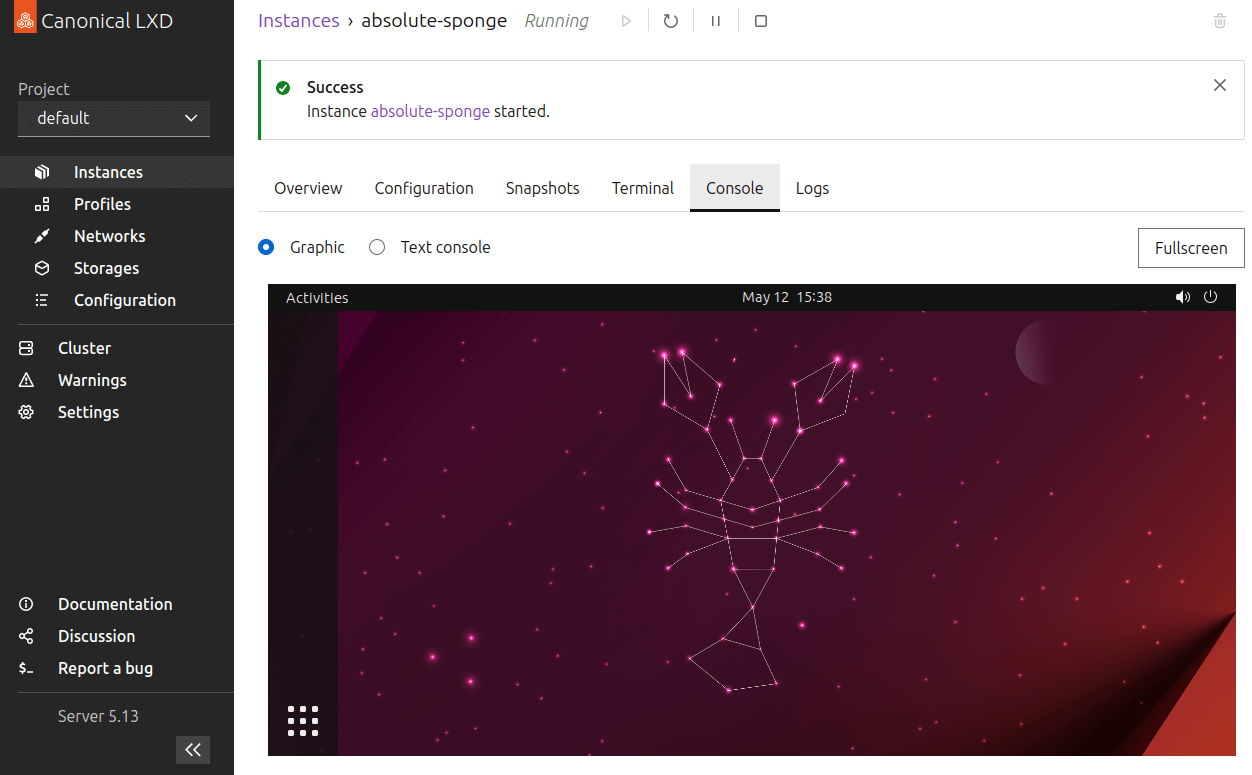
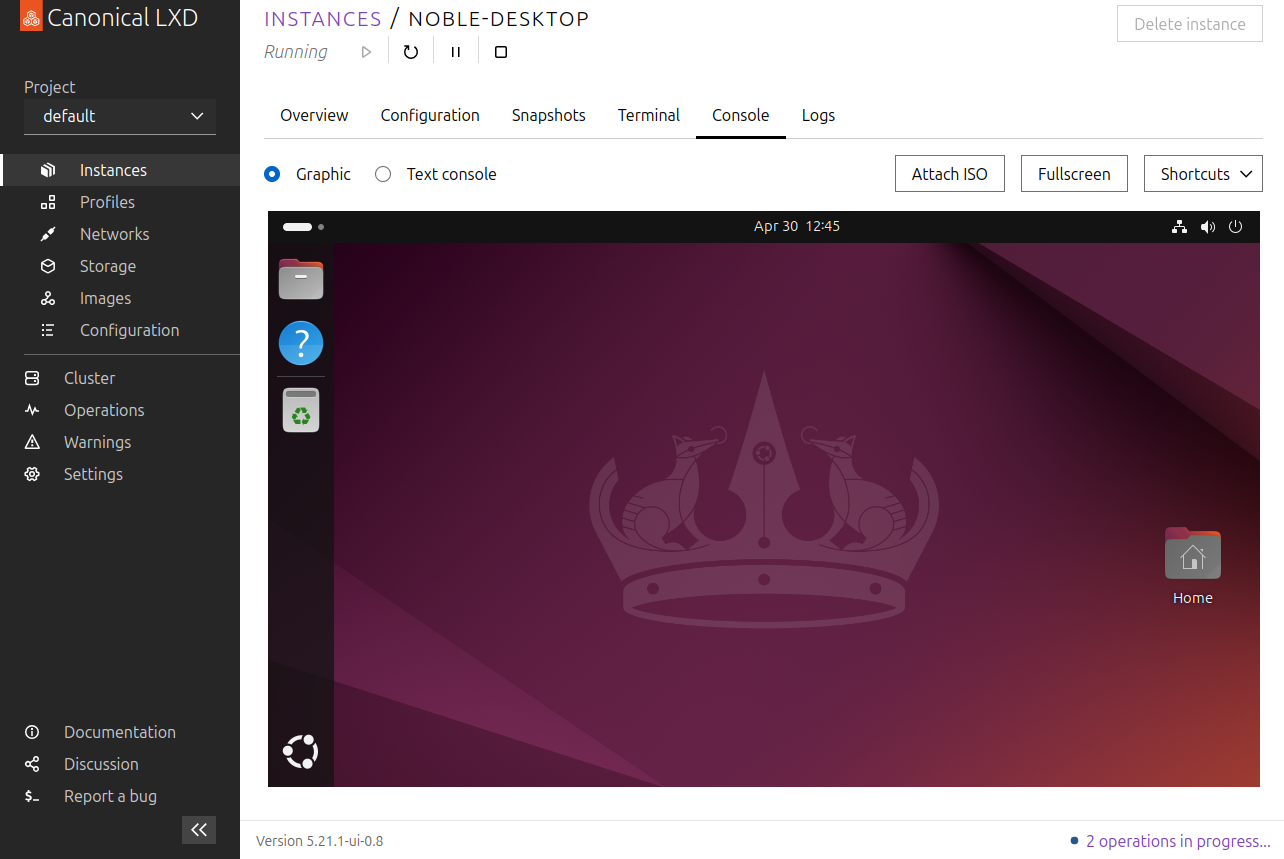
doc/ui: update console screenshot for Noble

diff --git a/doc/howto/access_ui.md b/doc/howto/access_ui.md
@@ -7,7 +7,12 @@ The LXD web UI is available as part of the LXD snap.
 See the [LXD-UI GitHub repository](https://github.com/canonical/lxd-ui) for the source code.
 ```
 
-![Graphical console of an instance in the LXD web UI](../images/ui_console.png)
+```{figure} /images/ui_console.png
+:width: 100%
+:alt: Graphical console of an instance in the LXD web UI
+
+Graphical console of an instance in the LXD web UI
+```
 
 ```{youtube} https://www.youtube.com/watch?v=wqEH_d8LC1k
 ```
@@ -25,16 +30,20 @@ Complete the following steps to access the LXD web UI:
    If you have not set up a secure {ref}`authentication-server-certificate`, LXD uses a self-signed certificate, which will cause a security warning in your browser.
    Use your browser's mechanism to continue despite the security warning.
 
-   ![Example for a security warning in Chrome](../images/ui_security_warning.png
-)
+   ```{figure} /images/ui_security_warning.png
+   :width: 80%
+   :alt: Example for a security warning in Chrome
+   ```
 
 1. Set up the certificates that are required for the UI client to authenticate with the LXD server by following the steps presented in the UI.
    These steps include creating a set of certificates, adding the private key to your browser, and adding the public key to the server's trust store.
 
    See {ref}`authentication` for more information.
 
-   ![Instructions for setting up certificates for the UI](../images/ui_set_up_certificates.png
-)
+   ```{figure} /images/ui_set_up_certificates.png
+   :width: 80%
+   :alt: Instructions for setting up certificates for the UI
+   ```
 
 After setting up the certificates, you can start creating instances, editing profiles, or configuring your server.
 
